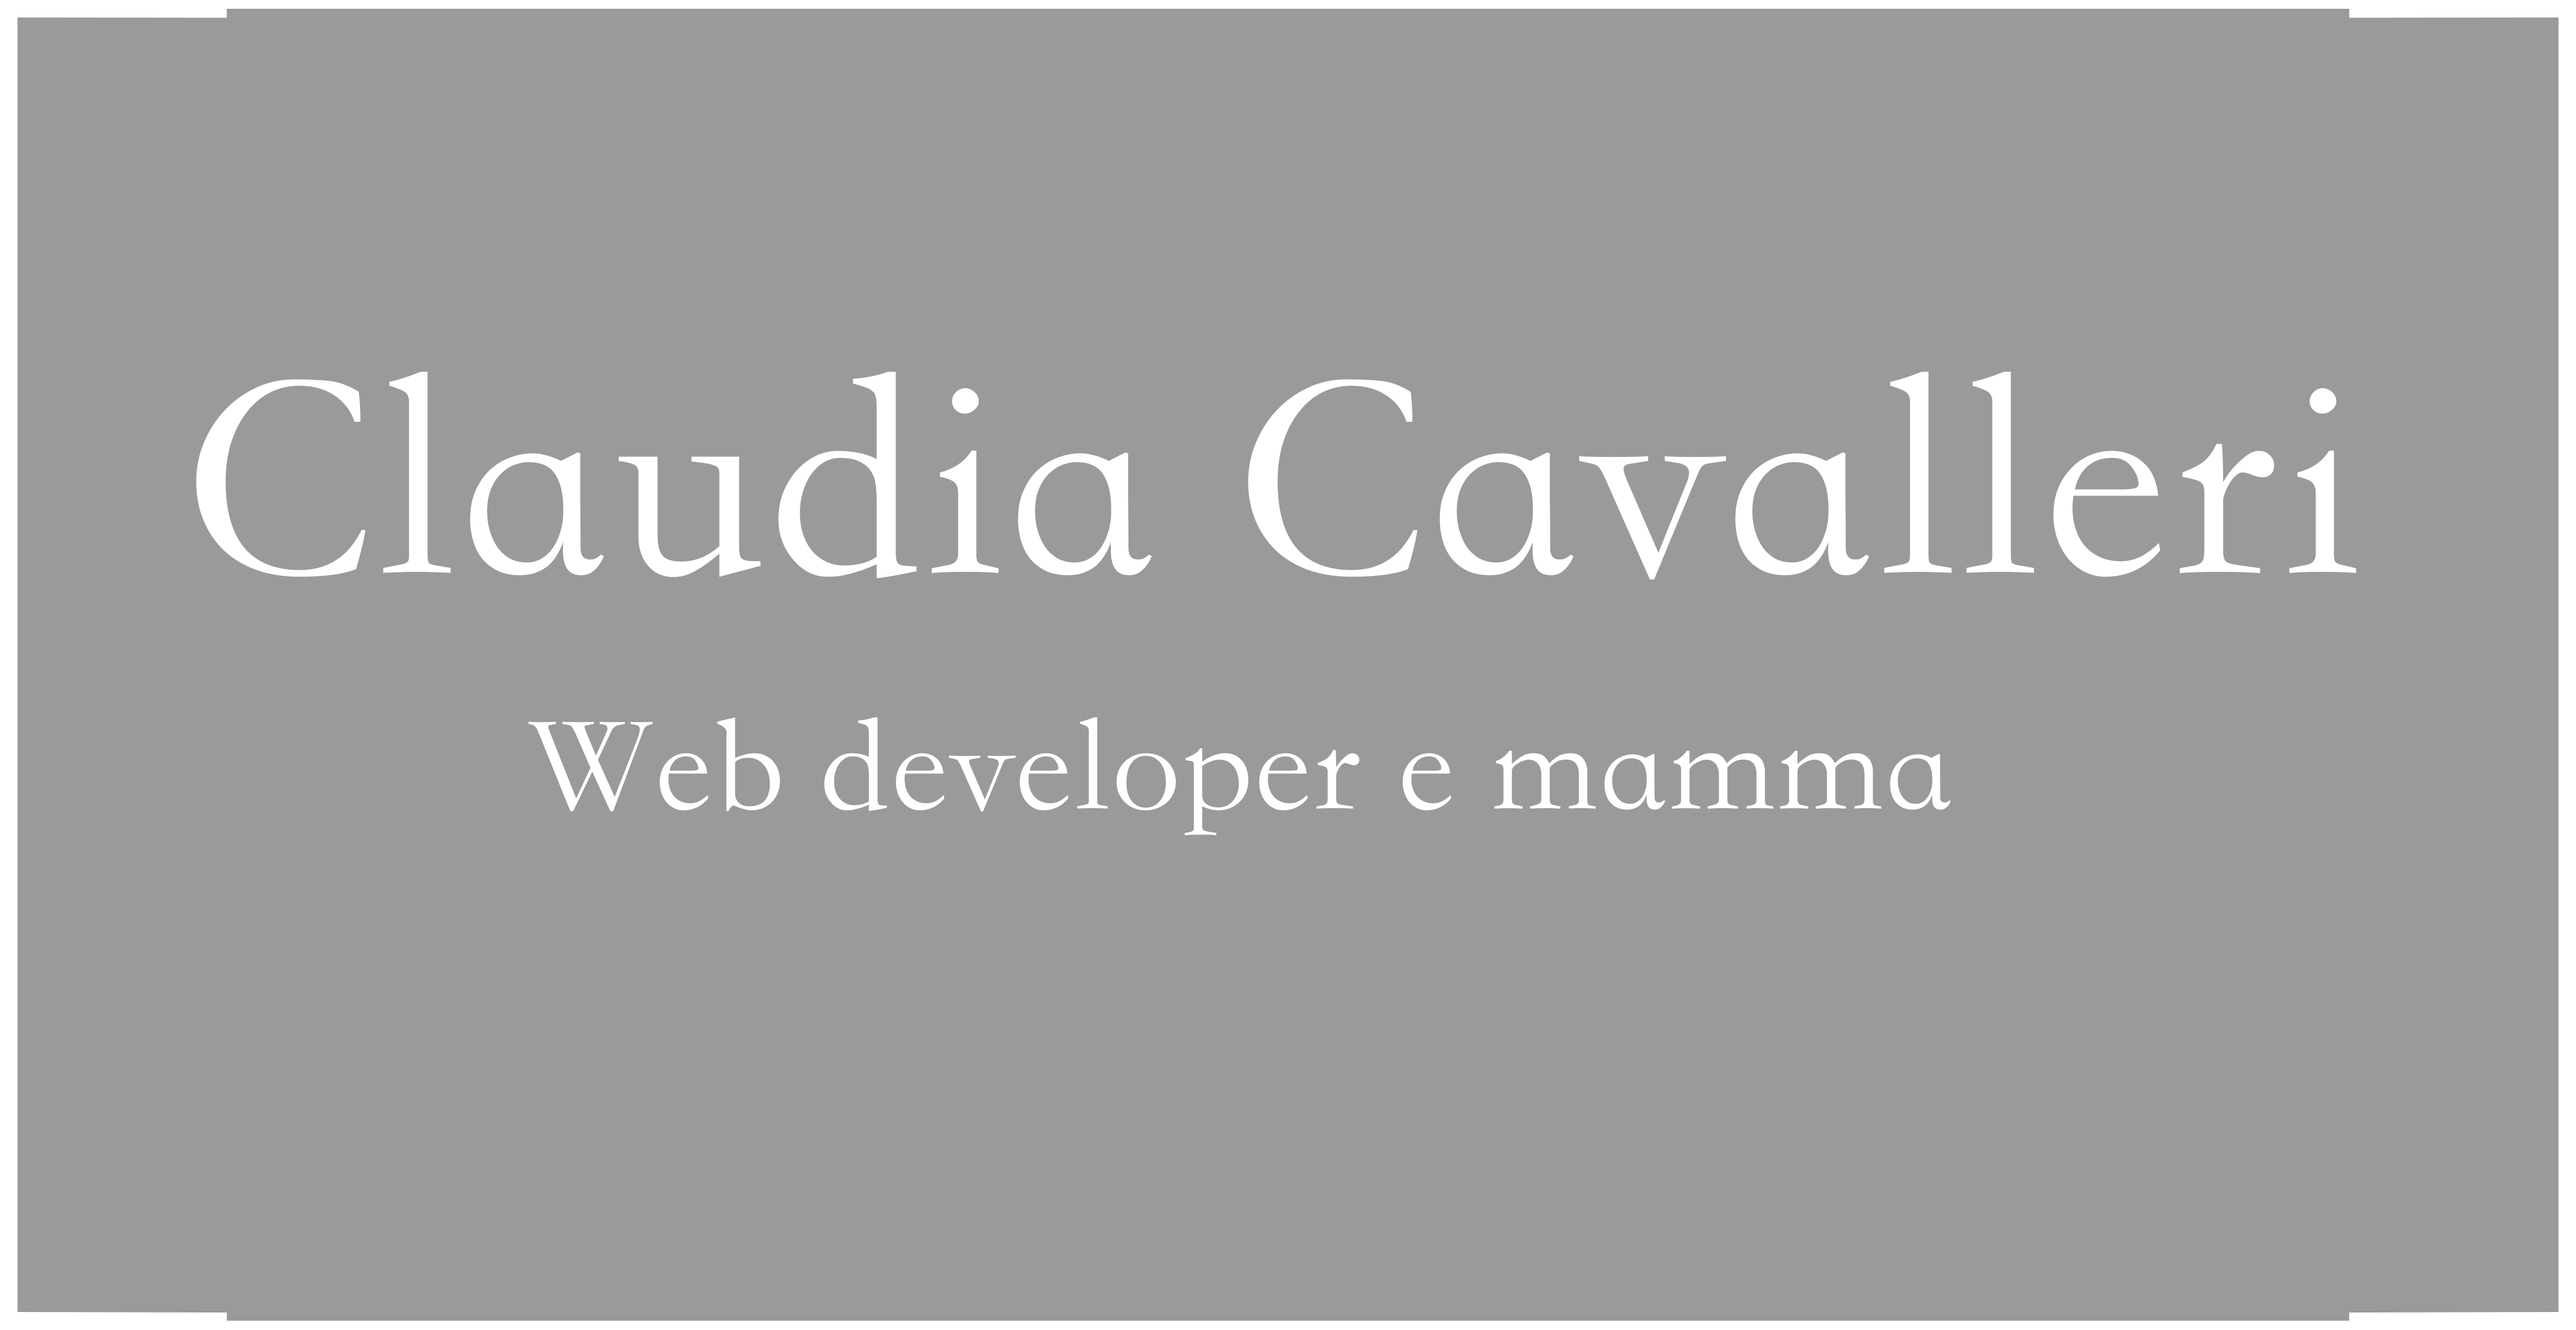
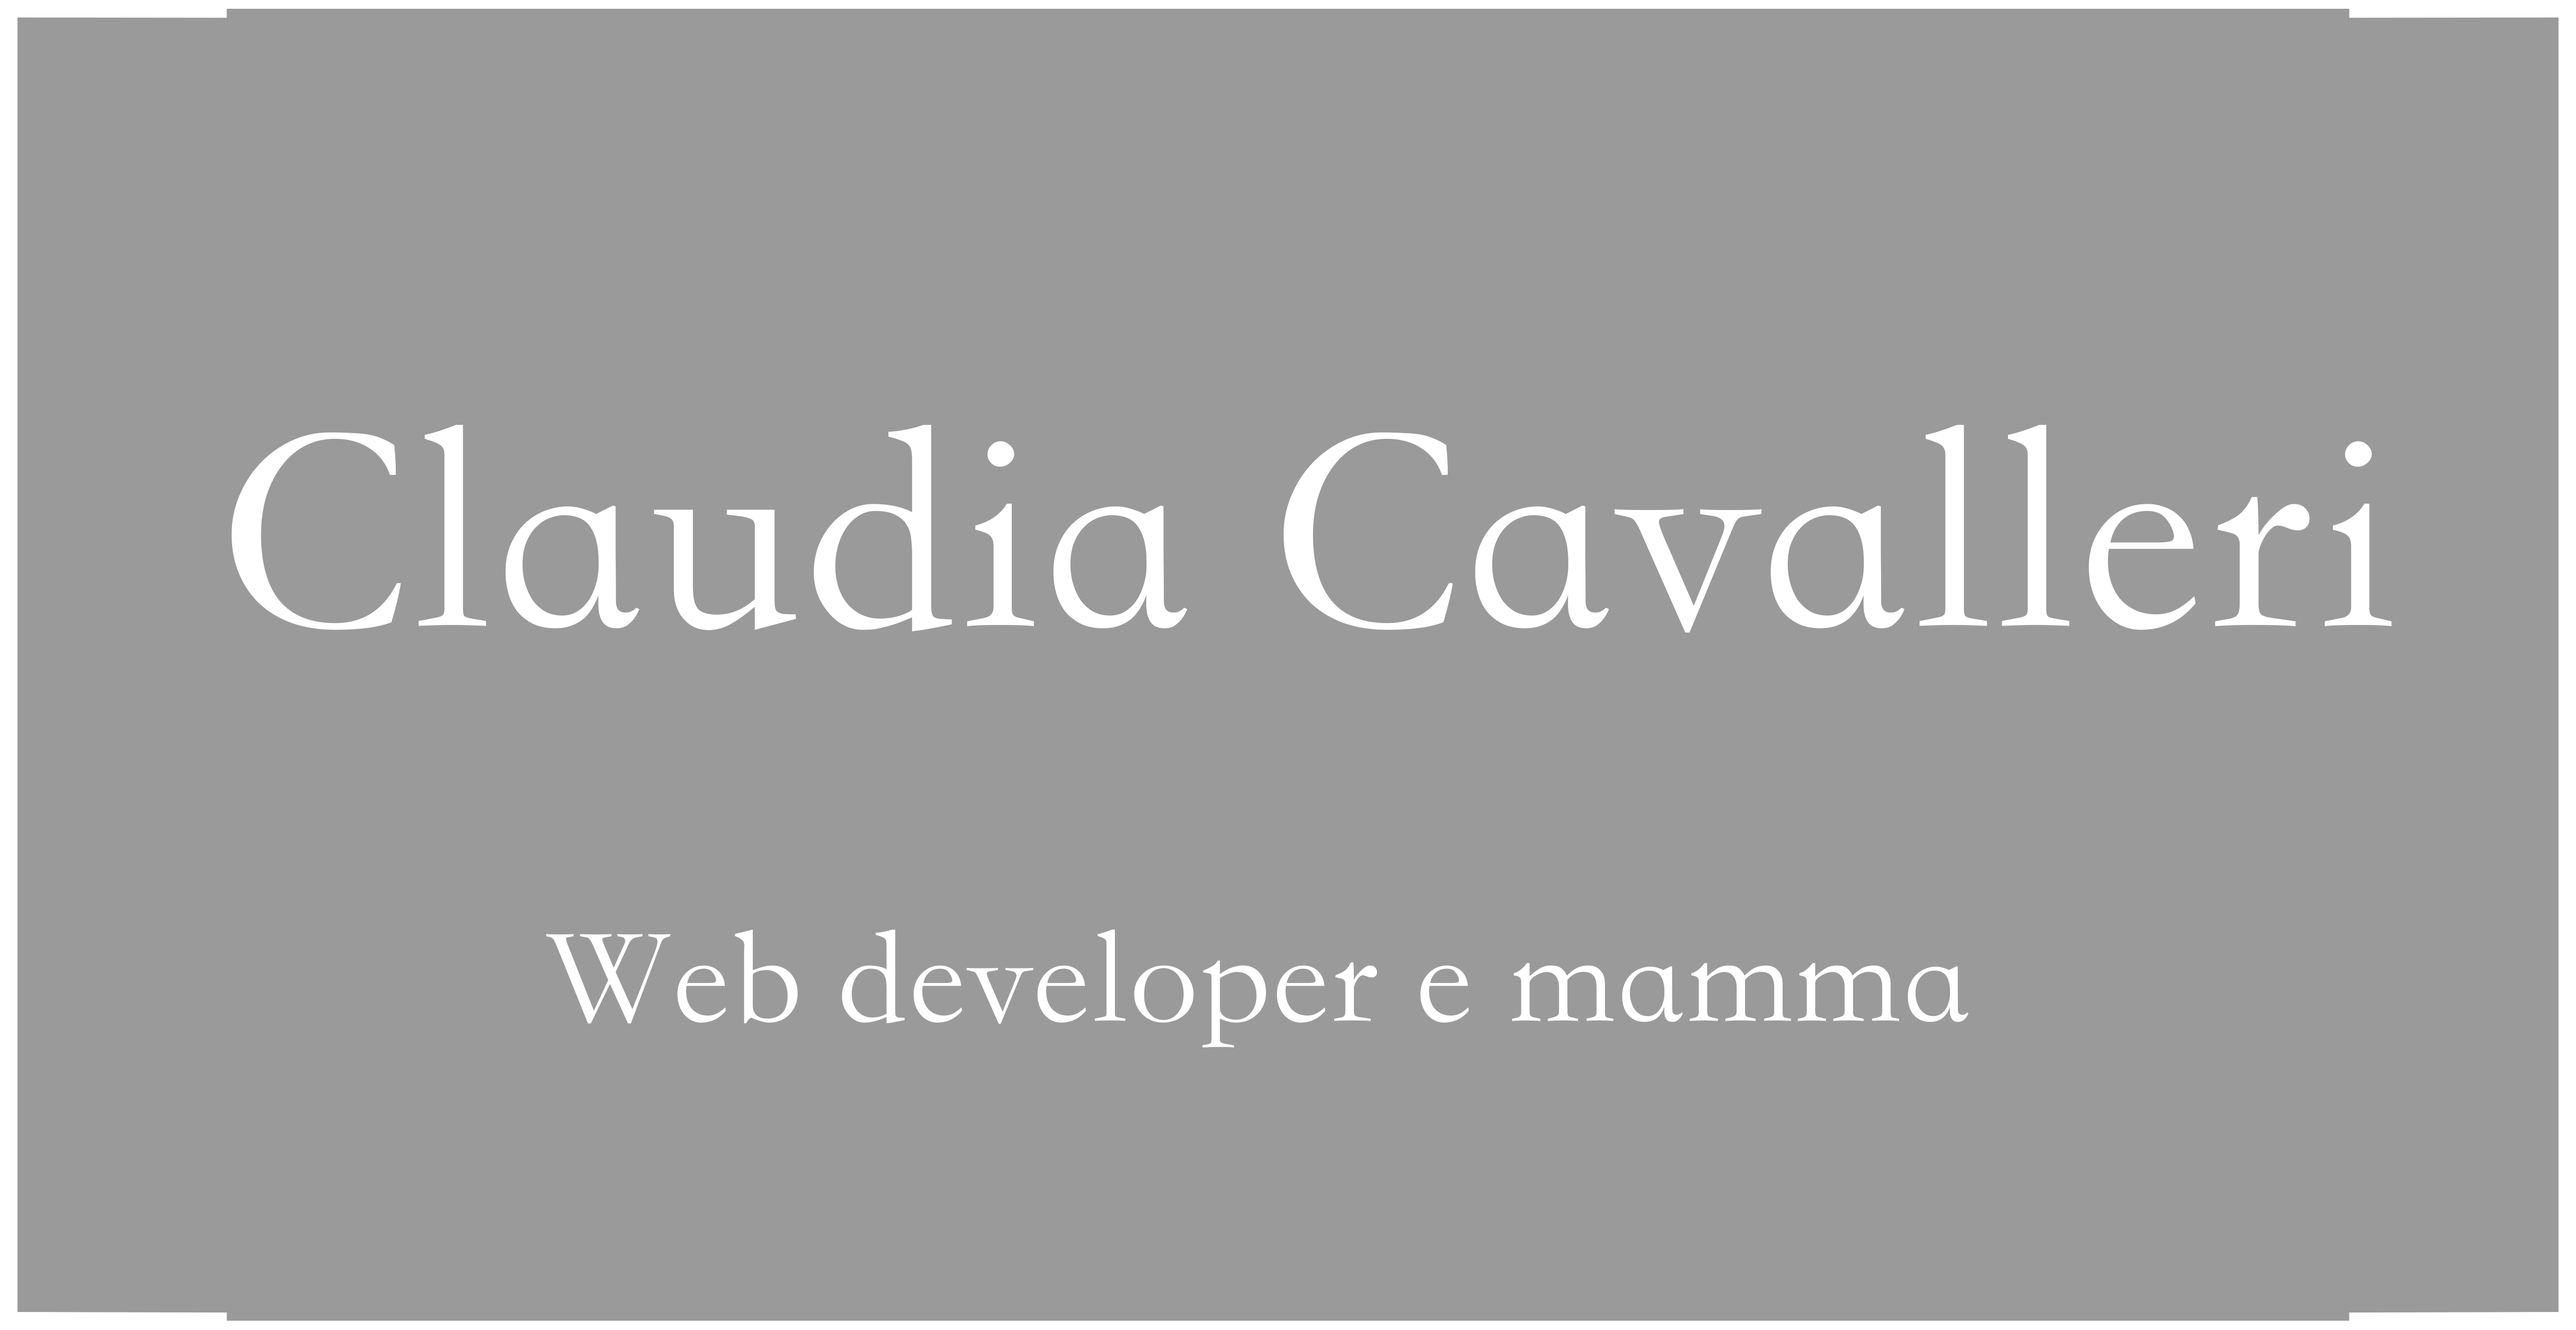
modifiche alle dimensioni

diff --git a/styles.css b/styles.css
@@ -20,7 +20,7 @@ a {
 }
 
 .name img {
-    max-width: 500px;
+    max-width: 700px;
 }
 
 article > .container-sm h1 {
@@ -49,9 +49,9 @@ article > .container-sm h1 {
     transform: translateY(-20px);
 }
 
-@media only screen and (max-width: 600px) {
-    .home h1 {
-        font-size: 40px;
+@media only screen and (max-width: 900px) {
+    .name img {
+        max-width: 400px;
     }
     article > .container-sm h1 {
         font-size: 25px;
